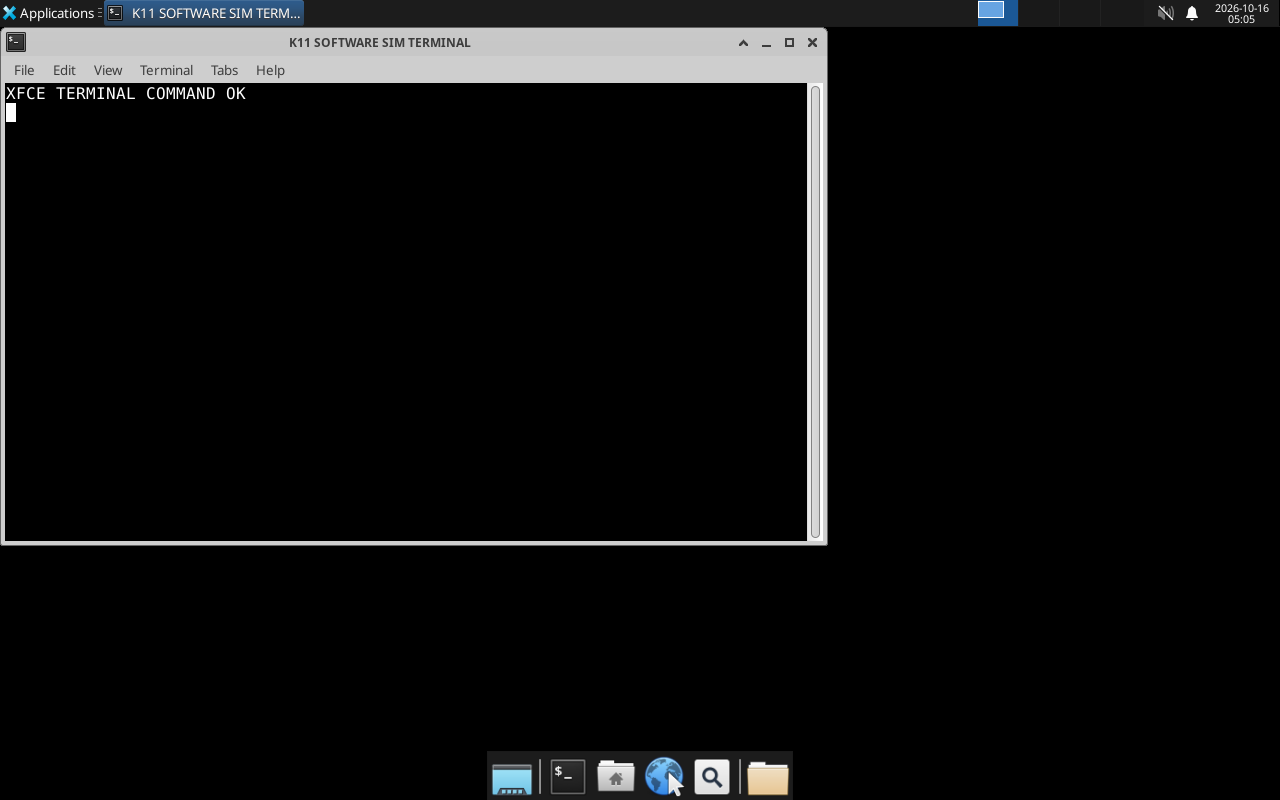
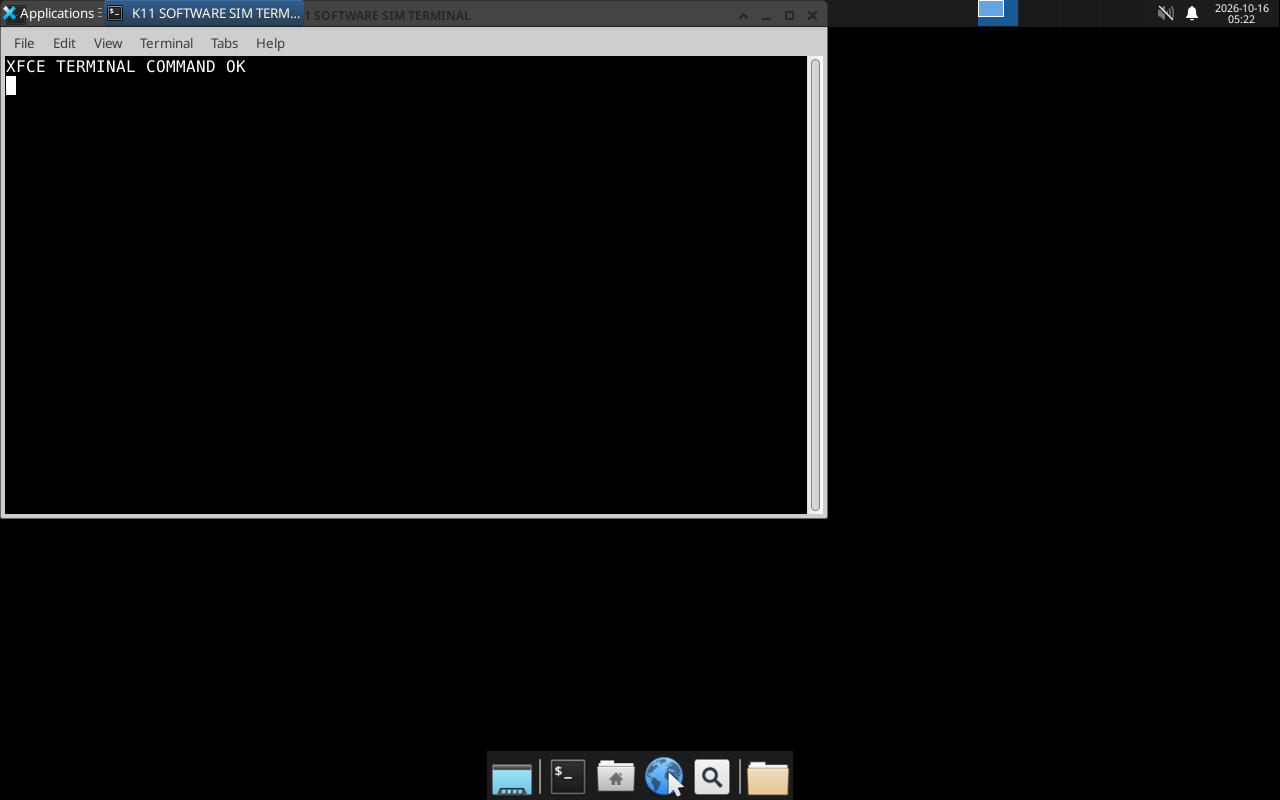
Restore desktop choices and require K11 for all

Changed region(s): [[0.0, 0.0, 0.6562, 0.1562], [0.0, 0.625, 0.6562, 0.6875]]

diff --git a/docs/audit.md b/docs/audit.md
@@ -2,16 +2,16 @@
 
 ## Respostas diretas
 
-1. **A substituição do Turnip foi implementada com isolamento e verificação de integridade no script; não foi instalada num telefone.** O pacote escolhido é colocado em `/opt/k11-turnip` dentro do Debian/PRoot, e o manifesto ICD passa a apontar para esse caminho. O script não sobrescreve bibliotecas do Termux. A validação real da GPU ainda precisa ocorrer num aparelho Adreno.
+1. **O novo instalador não instala o driver Mesa/Vulkan nativo antigo do Termux, mas também não remove uma instalação antiga já presente.** Os pacotes Termux/Bionic `mesa-zink`, `mesa-vulkan-icd-freedreno` e `vulkan-loader-android`, se já instalados, ficam no host para evitar quebrar apps nativos. No Debian/PRoot, o launcher aponta explicitamente para o novo ICD K11 em `/opt/k11-turnip`. Esse isolamento foi validado estaticamente; a GPU real ainda precisa ser testada num aparelho Adreno.
 2. **As camadas estão incluídas no plano de instalação:** Debian/PRoot fornece o ambiente glibc; `libvulkan_freedreno.so` é o ICD Vulkan; as bibliotecas Zink incluídas no pacote servem para OpenGL sobre Vulkan. As variáveis de seleção ficam confinadas à sessão PRoot. Isso não é Winlator: o app Winlator não é instalado.
 3. **O script foi corrigido e passou testes estáticos e simulados**, descritos abaixo.
 4. **O pacote Android Emulator foi instalado, mas não validou o Android/Termux.** O AVD ARM64 foi recusado porque o host x86_64 não suporta essa imagem; o AVD x86_64 respondeu ao ADB com Android 15, EGL `emulation` e Vulkan `ranchu`, mas não chegou a informar `sys.boot_completed=1` e foi encerrado. O teste gráfico foi feito separadamente por Xvfb/llvmpipe.
 
 ## O que foi mudado
 
-A nova versão usa `pkg` para o host Termux e instala Debian via `proot-distro`; os pacotes Debian são instalados com `apt-get` apenas dentro do Debian glibc. Ela baixa a release `winlator_v25.1_r2`, valida o SHA-256 esperado, valida que o driver é ELF AArch64 com dependências glibc, extrai somente os quatro arquivos previstos e gera um ICD com caminho isolado. O asset `.wcp` foi inspecionado e extraído sem executar código.
+A nova versão usa `pkg` para o host Termux e instala Debian via `proot-distro`; os pacotes Debian são instalados com `apt-get` apenas dentro do Debian glibc. O menu oferece XFCE4, LXQt, MATE e KDE Plasma. A opção escolhida muda apenas os pacotes e o comando de sessão; `install_k11_driver` é chamado sem condição para todas as opções. Ela baixa a release `winlator_v25.1_r2`, valida o SHA-256 esperado, valida que o driver é ELF AArch64 com dependências glibc, extrai somente os quatro arquivos previstos e gera um ICD com caminho isolado. O asset `.wcp` foi inspecionado e extraído sem executar código.
 
-Os launchers usam Termux:X11 no display `:1` com `--shared-tmp`. Foram removidos o Turnip nativo antigo, o `pkill -9` global, o encerramento de D-Bus alheio, as variáveis MESA que fingiam capacidades OpenGL e a instalação Hangover/Wine. Há comandos separados para verificar Vulkan (`~/verify-turnip.sh`) e OpenGL/Zink (`~/verify-glx.sh`).
+Os launchers usam Termux:X11 no display `:1` com `--shared-tmp`. A lógica de instalar os pacotes Mesa/Vulkan antigos foi removida; não há remoção automática de pacotes Termux/Bionic previamente instalados, pois não são dependências do ICD glibc no Debian e podem atender apps nativos. Também foram removidos o `pkill -9` global, o encerramento de D-Bus alheio, as variáveis MESA que fingiam capacidades OpenGL e a instalação Hangover/Wine. Há comandos separados para verificar Vulkan (`~/verify-turnip.sh`) e OpenGL/Zink (`~/verify-glx.sh`).
 
 ## Testes executados
 
@@ -19,6 +19,7 @@ Os launchers usam Termux:X11 no display `:1` com `--shared-tmp`. Foram removidos
[1 lines of base64/hex data omitted]
 - Artefato WCP inválido foi recusado pelo SHA-256 antes de qualquer etapa de instalação.
 - Falha simulada de `pkg update` foi registrada e propagada; nenhuma etapa posterior correu.
+- Todas as quatro opções de desktop foram simuladas: cada uma selecionou seu pacote/comando de sessão e, em todas, o log confirmou a etapa obrigatória de instalação K11. A opção 1 foi usada para a simulação XFCE/Xvfb descrita abaixo.
 - Simulação GUI passou: foi executado o launcher gerado pelo script, usando stubs apenas para Termux:X11/PRoot e um Xvfb com software rendering. A sessão `xfce4-session`/`xfwm4` iniciou, uma janela `xfce4-terminal` apareceu, o comando escreveu o marcador esperado e `glxinfo` identificou `llvmpipe (LLVM 20.1.2, 256 bits)`. A captura está anexada abaixo.
 - Não foi executado `vulkaninfo` com o K11 em GPU real nem `glxinfo` no Termux:X11 de Android. A simulação valida a sessão gráfica e o terminal sob renderização CPU, mas não prova compatibilidade do ICD com KGSL/Adreno.
 

diff --git a/README.md b/README.md
@@ -1,17 +1,19 @@
 # Termux Linux Setup — Adreno / Termux:X11
 
-Versão corrigida do instalador para executar XFCE dentro de Debian/PRoot no Termux e configurar o driver K11 Turnip em um ambiente glibc isolado.
+Versão corrigida do instalador para escolher XFCE, LXQt, MATE ou KDE Plasma dentro de Debian/PRoot no Termux e configurar o driver K11 Turnip em um ambiente glibc isolado.
 
 > **Estado de validação:** sintaxe, validação de artefato e fluxo de erro passaram testes simulados. O launcher XFCE e um terminal foram abertos em Xvfb com renderização CPU (`llvmpipe`). Ainda não houve execução em um telefone Snapdragon/Adreno; portanto, compatibilidade com KGSL e inicialização real do ICD Turnip não estão certificadas.
 
 ## O que instala
 
 - Dependências de host pelo `pkg` do Termux, incluindo `proot-distro` e `termux-x11-nightly`.
-- Debian com glibc via PRoot; XFCE e terminal XFCE dentro desse Debian.
+- Debian com glibc via PRoot; o desktop escolhido e seu terminal correspondente.
 - Driver K11 Turnip `v25.1.0-R2` em `/opt/k11-turnip`, com SHA-256 fixado e manifesto ICD ajustado.
-- Launchers e verificadores para iniciar XFCE, resumir Vulkan e conferir OpenGL/Zink.
+- Launchers e verificadores para iniciar o desktop escolhido, resumir Vulkan e conferir OpenGL/Zink.
 
 O app Android **Termux:X11** precisa estar instalado separadamente e aberto para visualizar a sessão. O app Winlator não é instalado nem iniciado; o pacote `.wcp` é usado apenas como contêiner dos arquivos do driver.
+
+O menu oferece `1) XFCE4`, `2) LXQt`, `3) MATE` e `4) KDE Plasma` (padrão: XFCE4). **A instalação do K11 é obrigatória e independente da opção escolhida**: a opção seleciona apenas o conjunto de pacotes e o comando da sessão gráfica.
 
 ## Requisitos e cautelas
 
@@ -19,6 +21,7 @@ O app Android **Termux:X11** precisa estar instalado separadamente e aberto para
 - Espaço livre para o rootfs Debian e seus pacotes; o script atualiza índices de pacotes e instala software.
 - A release K11 selecionada é de 2025 e o repositório de drivers está arquivado. “Turnip 6xx” no título da release não garante suporte a todo Adreno 6xx, kernel ou firmware. Verifique a compatibilidade do seu aparelho antes de instalar.
 - O driver foi compilado para glibc; não deve ser carregado diretamente em processos nativos Bionic do Termux. O PRoot fornece o userland glibc, mas não traduz nem garante compatibilidade com o driver/kernel Android.
+- O script não instala os antigos pacotes Termux/Bionic `mesa-zink`, `mesa-vulkan-icd-freedreno` nem `vulkan-loader-android`; também **não os desinstala se já estiverem presentes**. Eles são separados do ICD glibc selecionado no Debian/PRoot e são preservados para não afetar apps nativos do Termux.
 - A validação `llvmpipe` é apenas do caminho gráfico por software; não valida o Turnip nem o acesso real a KGSL.
 
 ## Instalação no Termux
@@ -29,7 +32,7 @@ Baixe este repositório no Termux, confirme que está no Termux oficial e execut
 bash scripts/termux-linux-setup.sh
 ```
 
-O script verifica arquitetura/GPU antes da instalação e grava um log em `~/termux-linux-setup.log`. Ele não apaga um rootfs Debian já existente. O driver é isolado em `/opt/k11-turnip` dentro do Debian.
+O script verifica arquitetura/GPU, apresenta o menu de desktop e grava um log em `~/termux-linux-setup.log`. Em execução não interativa, usa XFCE4 por padrão; também é possível definir `DESKTOP_CHOICE=1`, `2`, `3` ou `4`. **Em todos os casos, a etapa de instalação do K11 roda obrigatoriamente.** O script não apaga um rootfs Debian já existente. O driver é isolado em `/opt/k11-turnip` dentro do Debian.
 
 Após a instalação:
 
@@ -37,7 +40,7 @@ Após a instalação:
 ~/start-linux.sh
 ```
 
-Abra o app Android Termux:X11 para ver o XFCE. Para diagnóstico:
+Abra o app Android Termux:X11 para ver o desktop selecionado. Para diagnóstico:
 
 ```bash
 ~/verify-turnip.sh
